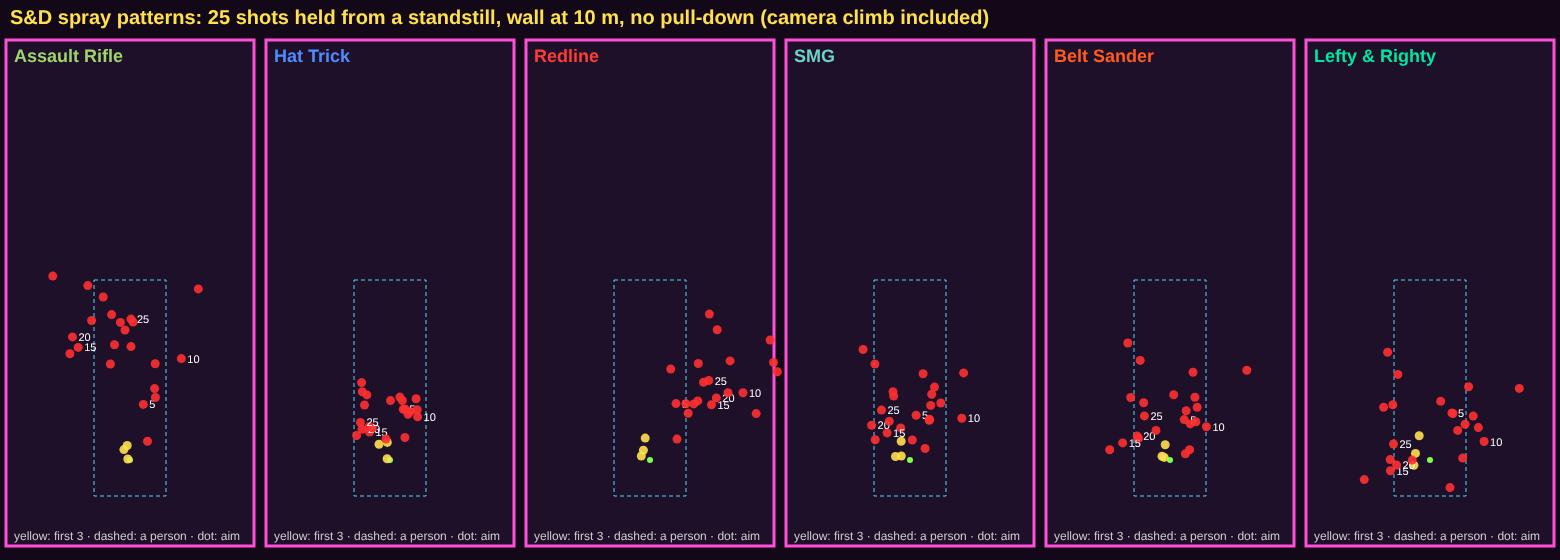
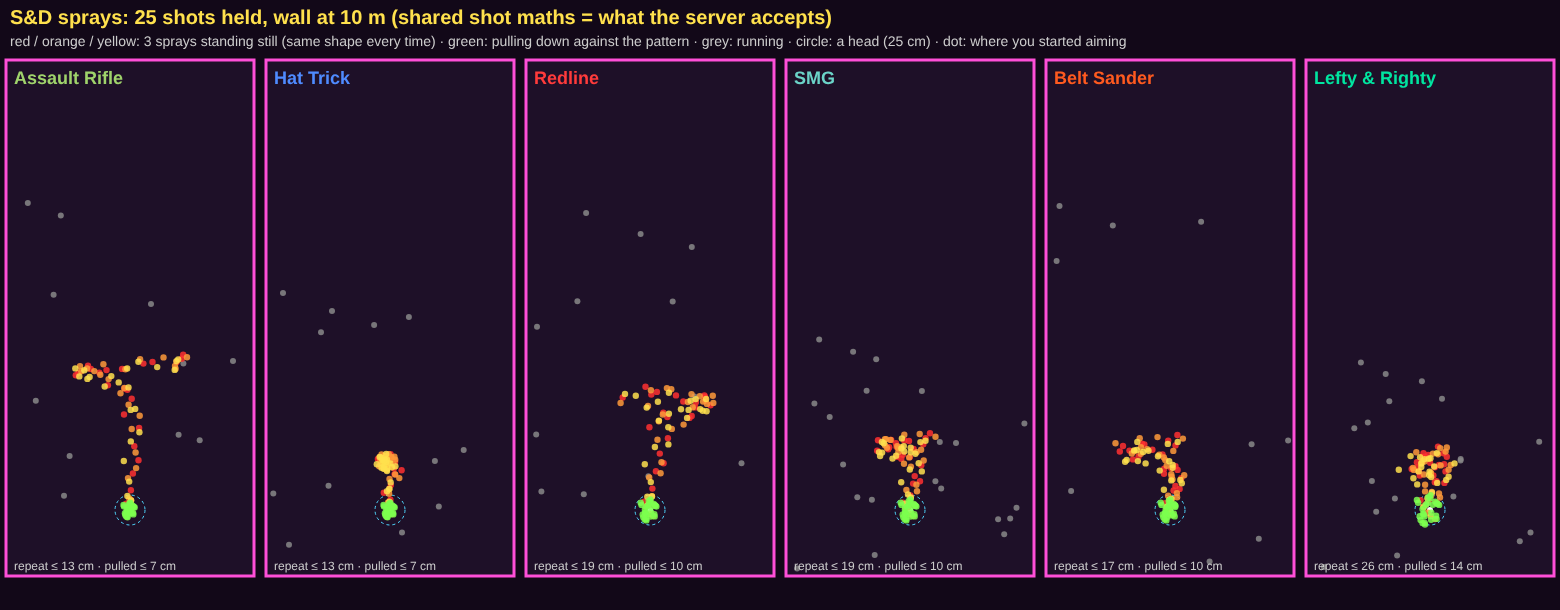
S&D sprays you can learn: the classic climb-then-sway, same shape every time
Every S&D automatic now sprays the genre-standard way: a tight first 1-3 shots, a mostly straight climb,
then a sway at the top (left, right, left). SMGs climb less and sway tighter, the Belt Sander climbs slowly
and snakes wide, pistols kick per tap and settle fast. Bloom standing still is tiny now, so a held spray
lands in the same shape every time, and pulling down against it keeps a rifle spray on a head at 10 m.
Running and jumping are still hopeless. The spectate corner box sits lower (it covered the royale stats).
Screenshots: first-person spectate (rifle, scoped sniper, knife), the royale corner box, the new spray chart.

Claude-Session: https://claude.ai/code/session_01Ayo4emfAmW1GA8WAtREYns

diff --git a/shared/sdgun.js b/shared/sdgun.js
@@ -4,28 +4,29 @@
 //   hd / bd / lg: damage per bullet (per pellet for shotguns) to the head / body / legs
 //   fo: range falloff, [[from m, damage share], ...] (the last step you're past wins)
 //   fs: first-shot spread standing still, from the hip (rad). ads: the same when aiming down sights (omitted = fs)
-//   bl / bc: bloom, spread added per shot of a spray / its cap (resets with the spray pattern's reset time)
-//   rc: recoil, the spray pattern (shared/tactical.js PATTERNS) scaled by this
+//   bl / bc: bloom, spread added per shot of a spray / its cap (resets with the spray pattern's reset time). kept small so the
+//   spray pattern, not luck, decides where a held spray goes (owner: learnable patterns)
+//   rc: recoil, the spray pattern (shared/tactical.js PATTERNS) scaled by this (1: the patterns there are already S&D-sized)
 export const SDG = {
   // sidearms: a tap pistol, a pocket shotgun, two machine pistols, the hand cannon
-  pistol: { hd: 72, bd: 24, lg: 20, fo: [[25, 0.85]], fs: 0.004, ads: 0.003, bl: 0.008, bc: 0.05, rc: 1.2 },
+  pistol: { hd: 72, bd: 24, lg: 20, fo: [[25, 0.85]], fs: 0.004, ads: 0.003, bl: 0.002, bc: 0.008, rc: 1 },
   sawnoff: { hd: 11, bd: 8, lg: 7, fo: [[7, 0.6], [14, 0.25]], fs: 0.11, bl: 0, bc: 0, rc: 1 },
-  akimbo: { hd: 40, bd: 15, lg: 12, fo: [[18, 0.8]], fs: 0.02, bl: 0.004, bc: 0.05, rc: 1.3 },
-  revolver: { hd: 152, bd: 46, lg: 38, fo: [[30, 0.85]], fs: 0.002, ads: 0.0015, bl: 0.02, bc: 0.08, rc: 1.4 },
+  akimbo: { hd: 40, bd: 15, lg: 12, fo: [[18, 0.8]], fs: 0.009, bl: 0.0008, bc: 0.005, rc: 1 },
+  revolver: { hd: 152, bd: 46, lg: 38, fo: [[30, 0.85]], fs: 0.002, ads: 0.0015, bl: 0.004, bc: 0.015, rc: 1 },
   // smgs: several body shots, they fall off past 20 m, light on the move
-  smg: { hd: 62, bd: 24, lg: 20, fo: [[20, 0.85], [40, 0.7]], fs: 0.012, ads: 0.008, bl: 0.003, bc: 0.035, rc: 1.2 },
-  redline: { hd: 66, bd: 26, lg: 22, fo: [[20, 0.85], [40, 0.7]], fs: 0.012, ads: 0.008, bl: 0.003, bc: 0.04, rc: 1.2 },
+  smg: { hd: 62, bd: 24, lg: 20, fo: [[20, 0.85], [40, 0.7]], fs: 0.006, ads: 0.004, bl: 0.0006, bc: 0.004, rc: 1 },
+  redline: { hd: 66, bd: 26, lg: 22, fo: [[20, 0.85], [40, 0.7]], fs: 0.006, ads: 0.004, bl: 0.0006, bc: 0.004, rc: 1 },
   // shotguns: a one-shot close up, a tickle at range
   shotgun: { hd: 24, bd: 15, lg: 12, fo: [[8, 0.6], [14, 0.25]], fs: 0.075, bl: 0, bc: 0, rc: 1 },
-  autoshot: { hd: 18, bd: 11, lg: 9, fo: [[7, 0.6], [12, 0.25]], fs: 0.07, bl: 0.004, bc: 0.02, rc: 1 },
+  autoshot: { hd: 18, bd: 11, lg: 9, fo: [[7, 0.6], [12, 0.25]], fs: 0.07, bl: 0.002, bc: 0.01, rc: 1 },
   // rifles: a headshot is a one-tap, four-ish to the body
-  lever: { hd: 124, bd: 52, lg: 44, fo: [], fs: 0.003, ads: 0.001, bl: 0.01, bc: 0.04, rc: 1.2 },
-  burst: { hd: 104, bd: 34, lg: 29, fo: [[35, 0.9]], fs: 0.004, ads: 0.002, bl: 0.004, bc: 0.025, rc: 1.15 },
-  ar: { hd: 156, bd: 39, lg: 33, fo: [], fs: 0.003, ads: 0.0015, bl: 0.0045, bc: 0.035, rc: 1.3 },
+  lever: { hd: 124, bd: 52, lg: 44, fo: [], fs: 0.003, ads: 0.001, bl: 0.003, bc: 0.01, rc: 1 },
+  burst: { hd: 104, bd: 34, lg: 29, fo: [[35, 0.9]], fs: 0.004, ads: 0.002, bl: 0.0006, bc: 0.003, rc: 1 },
+  ar: { hd: 156, bd: 39, lg: 33, fo: [], fs: 0.003, ads: 0.0015, bl: 0.0008, bc: 0.004, rc: 1 },
   // snipers + the lmg: the marksman rifle one-taps heads, the big one kills on the body. both are hopeless from the hip
-  dmr: { hd: 150, bd: 58, lg: 48, fo: [], fs: 0.03, ads: 0.0008, bl: 0.012, bc: 0.04, rc: 1 },
+  dmr: { hd: 150, bd: 58, lg: 48, fo: [], fs: 0.03, ads: 0.0008, bl: 0.004, bc: 0.012, rc: 1 },
   sniper: { hd: 250, bd: 150, lg: 115, fo: [], fs: 0.09, ads: 0, bl: 0, bc: 0, rc: 1 },
-  lmg: { hd: 118, bd: 32, lg: 27, fo: [[30, 0.9]], fs: 0.008, ads: 0.006, bl: 0.0035, bc: 0.05, rc: 1.2 },
+  lmg: { hd: 118, bd: 32, lg: 27, fo: [[30, 0.9]], fs: 0.005, ads: 0.004, bl: 0.0005, bc: 0.005, rc: 1 },
 };
 // how moving spreads every gun here (the TAC numbers in shared/tactical.js, but meaner): walking costs a little,
 // running a lot, jumping everything. counter-strafing works because it's all from your speed right now

diff --git a/shared/tactical.js b/shared/tactical.js
@@ -54,6 +54,18 @@ Object.assign(PATTERNS, {
   akimbo: { reset: 300, move: 0.5, wob: 0.014, kp: [[0, 0, 0], [4, 0.004, 0.012], [12, -0.01, 0.024], [24, 0.012, 0.03], [40, 0, 0.032]] },
   sawnoff: { reset: 800, move: 0.3, wob: 0, kp: [[0, 0, 0]] },
 });
+// ------------------------------------------------------------ S&D: the genre-standard sprays (owner, 2026-11-07: "every one of these games
+// basically use the same kind"). learnable on purpose: a tight first 1-3, a mostly straight climb, then a sway at the top
+// (left, right, left) you counter by pulling down then across. same shape every time; bloom on top is tiny (shared/sdgun.js)
+Object.assign(PATTERNS, {
+  ar: { reset: 380, move: 1, wob: 0.002, kp: [[0, 0, 0], [2, 0.0005, 0.004], [4, 0.001, 0.025], [7, 0.002, 0.065], [10, 0, 0.1], [13, -0.03, 0.11], [16, -0.045, 0.115], [19, -0.005, 0.118], [22, 0.04, 0.122], [25, 0.045, 0.124], [28, 0.005, 0.126], [29, -0.015, 0.127]] },
+  smg: { reset: 300, move: 0.55, wob: 0.002, kp: [[0, 0, 0], [2, 0, 0.004], [5, 0.001, 0.02], [9, 0.002, 0.045], [13, -0.018, 0.05], [17, -0.022, 0.053], [21, 0.004, 0.055], [25, 0.022, 0.056], [30, 0.018, 0.057], [36, -0.012, 0.058], [44, 0.008, 0.06]] },
+  redline: { reset: 420, move: 1, wob: 0.002, kp: [[0, 0, 0], [2, 0.001, 0.005], [5, 0.004, 0.035], [9, 0.01, 0.075], [13, 0.04, 0.085], [17, 0.05, 0.09], [21, 0.01, 0.093], [25, -0.025, 0.095], [30, 0.02, 0.097], [39, 0.035, 0.1]] },
+  akimbo: { reset: 300, move: 0.5, wob: 0.003, kp: [[0, 0, 0], [3, 0.001, 0.008], [8, 0.002, 0.03], [13, -0.015, 0.036], [19, 0.015, 0.04], [27, -0.012, 0.042], [39, 0.01, 0.044]] },
+  lmg: { reset: 520, move: 1.5, wob: 0.003, kp: [[0, 0, 0], [3, 0.001, 0.006], [10, 0.004, 0.035], [18, -0.04, 0.05], [28, 0.045, 0.058], [38, -0.05, 0.064], [50, 0.05, 0.068], [62, -0.05, 0.07], [75, 0.05, 0.072], [99, -0.03, 0.075]] },
+  burst: { reset: 260, move: 0.9, wob: 0.002, kp: [[0, 0, 0], [1, 0.001, 0.006], [2, -0.001, 0.013], [5, 0.004, 0.03], [8, -0.004, 0.04]] },
+  pistol: { reset: 300, move: 0.9, wob: 0.001, kp: [[0, 0, 0], [1, 0.001, 0.014], [3, -0.002, 0.03], [6, 0.003, 0.042]] }, // a kick per tap, gone fast
+});
 // S&D recoil: every gun in the table climbs `rc` times its pattern (scaled once, here, so both sides agree)
 for (const [id, r] of Object.entries(SDG)) { const P = PATTERNS[id]; if (P && r.rc !== 1) { P.kp = P.kp.map(([i, x, y]) => [i, x * r.rc, y * r.rc]); P.wob *= r.rc; } }
 const FALLBACK_MOVE = 1;

diff --git a/public/js/pip.js b/public/js/pip.js
@@ -37,7 +37,7 @@ export function pipFrame(dt, id) {
   if (!P.rt) init();
   const R = G.renderer;
   R.getSize(sz);
-  const w = Math.round(sz.x * SHARE), h = Math.round((w * RT_H) / RT_W), x = sz.x - w - Math.round(sz.x * 0.012), y = Math.round(sz.y * 0.36);
+  const w = Math.round(sz.x * SHARE), h = Math.round((w * RT_H) / RT_W), x = sz.x - w - Math.round(sz.x * 0.012), y = Math.round(sz.y * 0.47); // (under the royale stat box and the minimap)
   if (id !== P.id || !P.on) { P.id = id; P.yaw = r.yaw; P.pitch = r.pitch; P.n = 0; P.el.querySelector('span').textContent = `${r.name}'s eyes`; }
   P.on = true;
   // their eyes (smoothed a little, like the first-person spectate)
